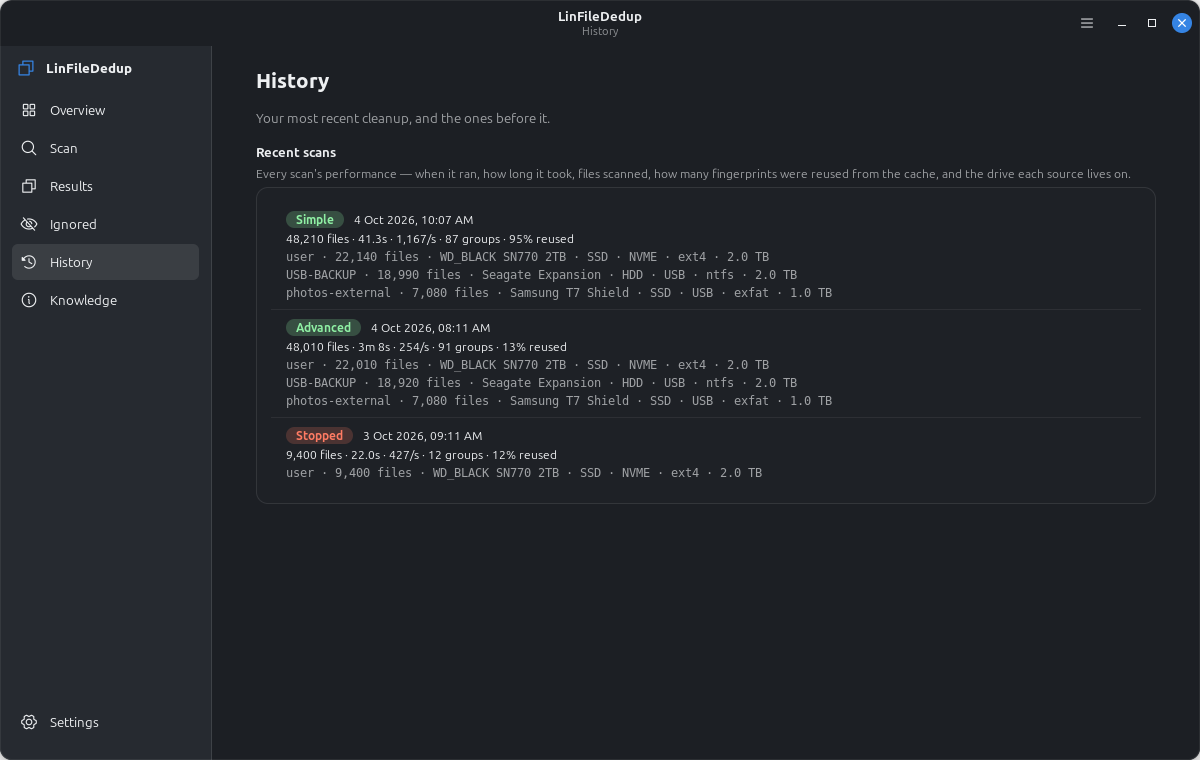
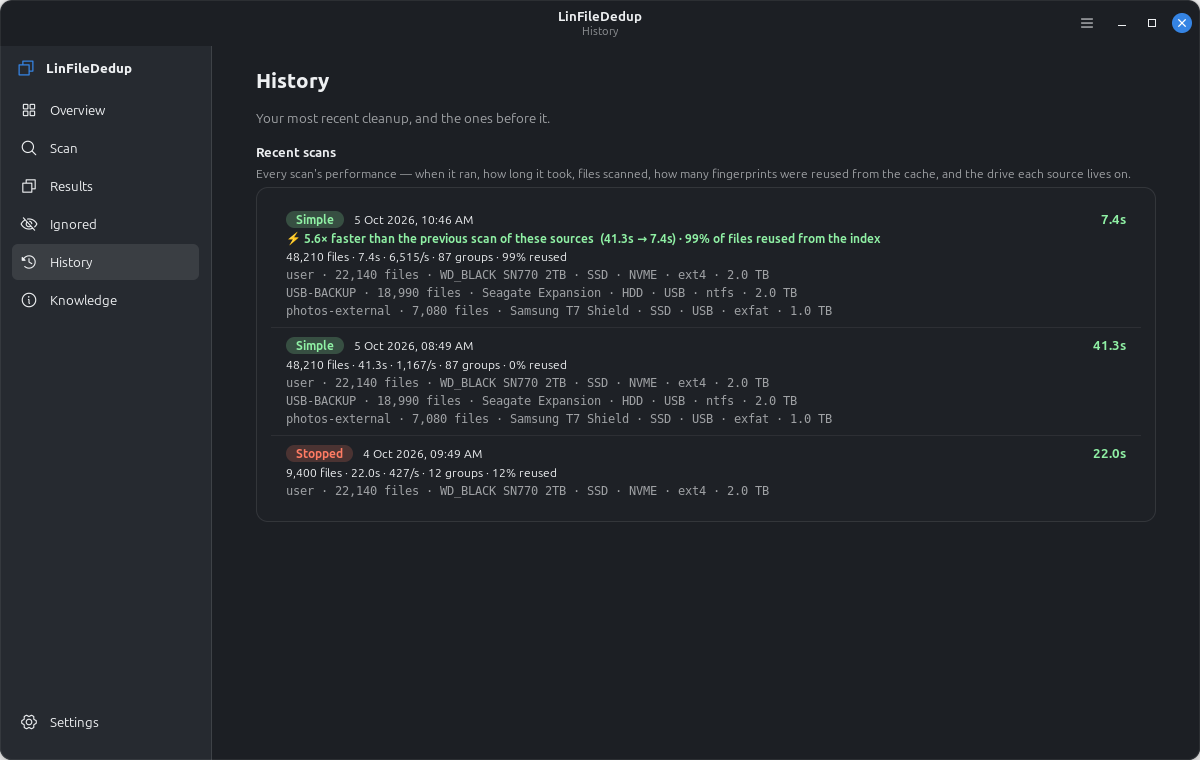
History: prominent per-scan duration + like-for-like cache speed-up comparison
- ui/pages/history.py: duration is now the headline metric per scan (bold,
  right-aligned); a comparison line pairs each scan with the previous scan over
  the SAME sources and tier and shows the ratio + % reused ("5.6x faster …
  (41.3s -> 7.4s) · 99% reused"), so indexing is visible at a glance.
- docs/CACHE-AND-HISTORY.md §10: how the metrics are produced INSIDE the scan
  (reused/hashed counted at the cache hit/miss points; duration = wall clock),
  so the display reflects real index utilisation; what 0% reused + no speed-up
  means (cold scan / changed-or-moved paths / stale running process).
- Refreshed history-performance.png. 94 tests pass.

Changed region(s): [[0.2158, 0.3026, 0.74, 0.6658], [0.4933, 0.6053, 0.5858, 0.6658], [0.6167, 0.6355, 0.6475, 0.6658]]

diff --git a/src/linfilededuplication/ui/pages/history.py b/src/linfilededuplication/ui/pages/history.py
@@ -176,12 +176,26 @@ class HistoryPage(BasePage):
         wrap.append(sub)
         lst = Gtk.Box(orientation=Gtk.Orientation.VERTICAL, spacing=0)
         lst.add_css_class("app-card")
-        for run in runs[:12]:
-            lst.append(self._run_row(run))
+        shown = runs[:12]
+        for i, run in enumerate(shown):
+            prev = self._previous_same_sources(run, runs[i + 1:])
+            lst.append(self._run_row(run, prev))
         wrap.append(lst)
         return wrap
 
-    def _run_row(self, run) -> Gtk.Widget:
+    @staticmethod
+    def _sig(run) -> frozenset:
+        return frozenset(s.path.rstrip("/") for s in run.sources)
+
+    def _previous_same_sources(self, run, older):
+        """The most recent earlier run over the SAME set of sources (for a like-for-like compare)."""
+        sig = self._sig(run)
+        for r in older:
+            if not r.cancelled and r.tier == run.tier and self._sig(r) == sig:
+                return r                            # same sources AND same tier = caching compare
+        return None
+
+    def _run_row(self, run, prev=None) -> Gtk.Widget:
         from linfilededuplication.core import driveinfo
         box = Gtk.Box(orientation=Gtk.Orientation.VERTICAL, spacing=3)
         box.add_css_class("app-file-row")
@@ -193,11 +207,25 @@ class HistoryPage(BasePage):
         chip.add_css_class("app-small")
         chip.add_css_class("app-chip-fail" if run.cancelled else "app-chip-ok")
         chip.set_valign(Gtk.Align.CENTER)
-        when = Gtk.Label(label=_when(run.when), xalign=0.0)
+        when = Gtk.Label(label=_when(run.when), xalign=0.0, hexpand=True)
         when.add_css_class("app-small")
+        # duration, emphasised, on the right of the header — the headline comparison metric
+        dur = Gtk.Label(label=self._fmt_duration(run.duration), xalign=1.0)
+        dur.add_css_class("app-group-title")
+        dur.add_css_class("app-keep-text")
+        dur.set_tooltip_text(_("Scan duration"))
         head.append(chip)
         head.append(when)
+        head.append(dur)
         box.append(head)
+
+        cmp = self._compare_text(run, prev)
+        if cmp is not None:
+            text, css = cmp
+            cl = Gtk.Label(label=text, xalign=0.0, wrap=True)
+            cl.add_css_class("app-small")
+            cl.add_css_class(css)
+            box.append(cl)
 
         # headline metrics: files · duration · throughput · groups · reuse
         parts = [_("{n:,} files").format(n=run.total_files),
@@ -231,6 +259,27 @@ class HistoryPage(BasePage):
             sl.set_tooltip_text(s.path)
             box.append(sl)
         return box
+
+    def _compare_text(self, run, prev):
+        """Like-for-like duration comparison against the previous scan of the same sources — the
+        line that makes the index/cache speed-up visible. Returns (text, css-class) or None."""
+        if prev is None or run.cancelled or run.duration <= 0 or prev.duration <= 0:
+            return None
+        cur, old = run.duration, prev.duration
+        reused = ""
+        tot = run.total_reused + run.total_hashed
+        if run.used_cache and tot:
+            reused = _(" · {pct}% of files reused from the index").format(
+                pct=round(100 * run.total_reused / tot))
+        span = _("{old} → {new}").format(old=self._fmt_duration(old), new=self._fmt_duration(cur))
+        if cur <= old / 1.15:                       # meaningfully faster
+            return (_("⚡ {f:.1f}× faster than the previous scan of these sources  ({span}){r}")
+                    .format(f=old / cur, span=span, r=reused), "app-keep-text")
+        if cur >= old * 1.15:                        # meaningfully slower
+            return (_("{f:.1f}× slower than the previous scan  ({span})")
+                    .format(f=cur / old, span=span), "app-del-text")
+        return (_("about the same as the previous scan  ({span}){r}").format(span=span, r=reused),
+                "app-dim")
 
     @staticmethod
     def _fmt_duration(sec: float) -> str:

diff --git a/docs/CACHE-AND-HISTORY.md b/docs/CACHE-AND-HISTORY.md
@@ -232,7 +232,43 @@ Settings → Scanning (then no cache is used and every file is read every scan).
 
 ---
 
-## 10. Enforced by tests
+## 10. How the metrics are produced — the display reflects the real scan
+
+The History numbers are **not decorative or estimated** — they are counted *inside the scan loop*,
+at the exact moments the cache is consulted, so they are a direct readout of how much the index was
+used. This is the link between "displayed in History" and "incorporated into the scan itself".
+
+| Metric | Where it comes from (measured during the scan) |
+| --- | --- |
+| **duration** | wall-clock `time.time()` around the whole run in `core/scanner.scan()` → `Finished.seconds` |
+| **files reused** (`total_reused`, per-source) | incremented at every **cache hit** in `find_exact_groups` (and `find_similar_groups` for images) — i.e. each file the index let the scan skip reading |
+| **files re-hashed** (`total_hashed`, per-source) | incremented at every **cache miss** — each new/changed file the scan actually read |
+| **% reused** | `reused / (reused + hashed)` — literally the share of candidate files served from the index this run |
+| **files scanned / bytes** (per source) | counted from the directory walk |
+| **drive specs** | probed once per source on the worker thread (`core/driveinfo.py`) |
+| **throughput** | `total_files / duration` |
+
+So the display is a true measurement of the scan's own behaviour:
+
+- **`% reused` is high and `duration` dropped** → the index was used; unchanged files were skipped.
+- **`% reused` is 0 and `duration` didn't drop** → the index was *not* used this run — because it
+  was a first/cold scan, the files genuinely changed, the **paths changed** (a drive at a new
+  mountpoint, §3/§4), or **the running app predates the caching code and must be restarted** (a
+  running process keeps the code it started with; reinstalling the files does not update it).
+
+**Duration comparison.** The History *Recent scans* list shows each scan's duration prominently and,
+for a scan it can pair with the **previous scan over the same sources at the same tier**, a
+like-for-like line — e.g. *"⚡ 5.6× faster than the previous scan of these sources (41.3 s → 7.4 s) ·
+99% of files reused from the index"*. That single line is how you confirm, at a glance, that
+indexing changed the scan: a cold scan (0% reused) next to a warm one (high % reused) with the time
+difference between them. Pairing requires the **same set of source paths and the same tier**, so the
+comparison isolates caching rather than a change in what was scanned.
+
+**Granularity.** Metrics are kept **per scan** and **per source** (reused vs. re-hashed counts, drive,
+files). Individual files are not timed separately; the per-source reuse counts are the finest grain,
+which is what matters for "did the index help this location?".
+
+## 11. Enforced by tests
 
 | Rule | Test |
 | --- | --- |
@@ -246,7 +282,7 @@ Settings → Scanning (then no cache is used and every file is read every scan).
 
 ---
 
-## 11. FAQ
+## 12. FAQ
 
 - **I re-scanned the same external drive and it wasn't faster — why?** Before the size+mtime fix
   (§3) a remount changed `dev`/`ino` and missed the whole drive. With the fix, the **first** scan

diff --git a/changelog.md b/changelog.md
@@ -74,3 +74,4 @@ Append-only. Format: `| ISO-8601 datetime | description |`.
 | 2026-10-04 | SpotCheck now previews **music** and **all image types**. Added an **audio** preview kind: `.mp3/.flac/.wav/.aac/.m4a/.ogg/.opus/.wma/.aiff/.alac/.ape/.wv/.mka/…` play inline via GtkMediaControls (play/seek/volume) when the GTK media backend is present, else a Play-in-default-player button + install hint — so two tracks can be compared by ear (previously music fell through to a bare metadata card). Broadened image support: decode to `Gdk.Texture`; JPG/PNG/GIF/BMP/TIFF/WEBP/SVG/ICO native, HEIC/HEIF/AVIF/JXL when a loader is installed, camera RAW (CR2/NEF/ARW/DNG/ORF/RW2/…) and any loader-less format fall back to an Open-in-viewer card + hint. `core/preview.py` gains `KIND_AUDIO`, `_AUDIO_EXT`, expanded `_IMAGE_EXT`; `ui/pages/spotcheck.py` gains `_audio_view`/`_image_view`/`_image_fallback`. Tests: audio + broad-image classification. Screenshots `spotcheck-audio.png`, `spotcheck-image.png`. |
 | 2026-10-04 | Documented the cache/scan-history feature in full: new `docs/CACHE-AND-HISTORY.md` — the authoritative spec for what is remembered (the three stores: `hashcache.json`, `phashcache.json`, `scanruns.json`), the hit/miss/update rule, why the match is size+mtime (remount tolerance, not dev/ino), how the index changes a future scan (screen-first, skip unchanged entirely), the selective byte-verify policy, correctness/safety, persistence (written each scan incl. on cancel; survives restart/reboot; caps), invalidation & lifecycle (removal drops entries, moves re-hash once), what the user sees, the enforcing tests, and an FAQ. Linked from FEATURES §4b, CLAUDE.md and HANDOFF. Also made invalidation consistent: `PHashCache.remove()` added and `results._invalidate_cache` now drops removed/relinked files from the perceptual cache too (not just the content cache). 94 tests passing. |
 | 2026-10-04 | Docs: `CACHE-AND-HISTORY.md` now answers explicitly that changing the source selection never wipes the cache — it is a single global, path-keyed index (not scoped to the chosen sources): removing a source leaves its entries for next time, adding one only hashes its new paths. Documented the one caveat (a drive mounting at a *different mountpoint* changes paths → treated as new), in §4 and the FAQ. |
+| 2026-10-05 | History *Recent scans* now foregrounds **duration per scan** (bold, right-aligned) and adds a like-for-like **comparison line** vs the previous scan over the *same sources and tier* — e.g. "⚡ 5.6× faster than the previous scan of these sources (41.3s → 7.4s) · 99% of files reused from the index" — so the indexing speed-up is visible at a glance (`ui/pages/history.py`: `_previous_same_sources`, `_compare_text`; duration emphasised in the row header). Documented in `CACHE-AND-HISTORY.md` §10 ("How the metrics are produced — the display reflects the real scan"): the reused/re-hashed counts are measured at the cache hit/miss points inside the scan, so the display is a true readout of index utilisation; 0% reused with no speed-up means a cold scan, changed/moved paths, or **a stale running process that must be restarted** (reinstalling files doesn't update a running process). |
